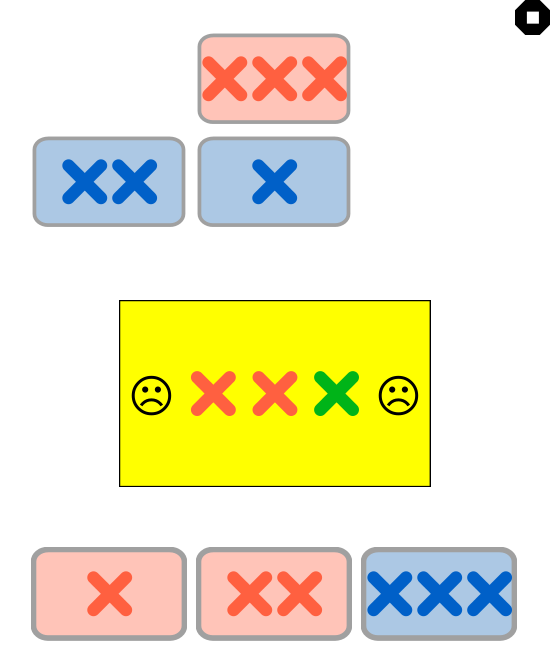
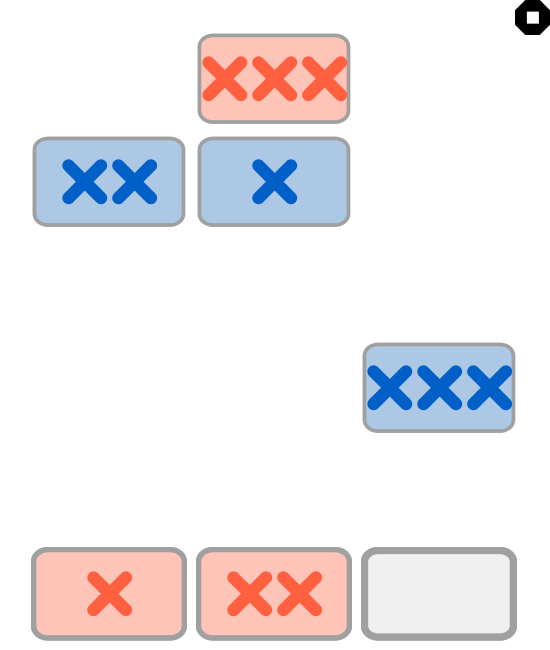
more frames for help animation

Changed region(s): [[0.2164, 0.4615, 0.9582, 0.7692], [0.6491, 0.8308, 0.9582, 0.9846]]

diff --git a/game.py b/game.py
@@ -1417,7 +1417,7 @@ class Game():
         self._help_index += 1
         self._help_index %= len(self._help)
         self._help[self._help_index].set_layer(5000)
-        if self._help_index in [0, 9, 20, 24]:
+        if self._help_index in [0, 10, 22, 27]:
             pause = 2500
         else:
             pause = 750
